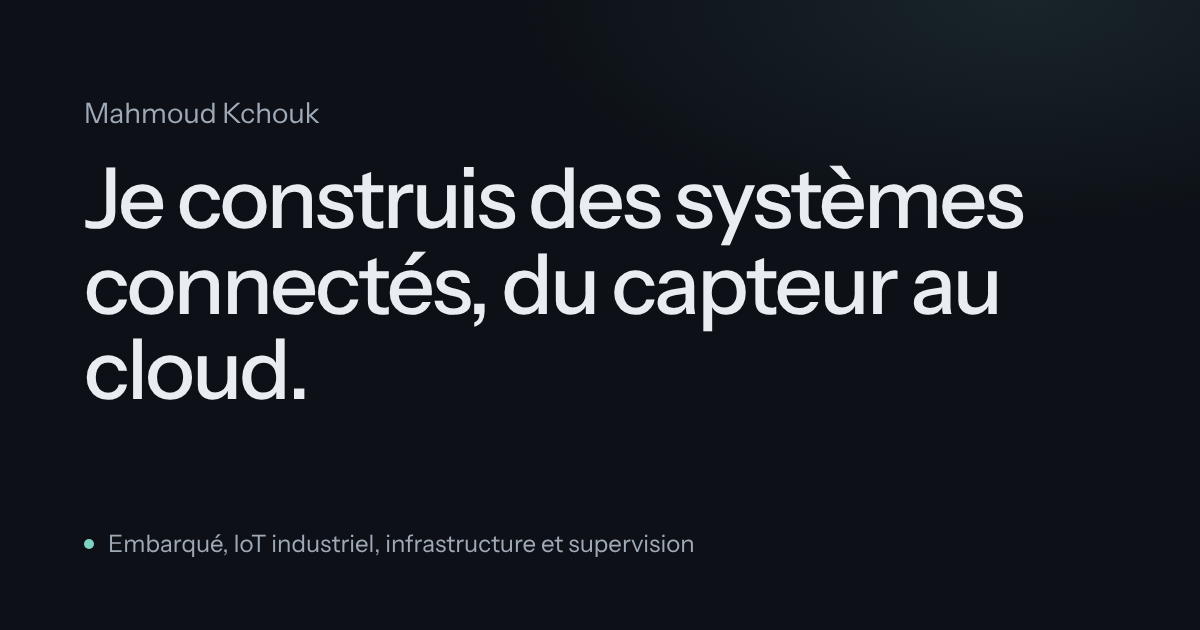
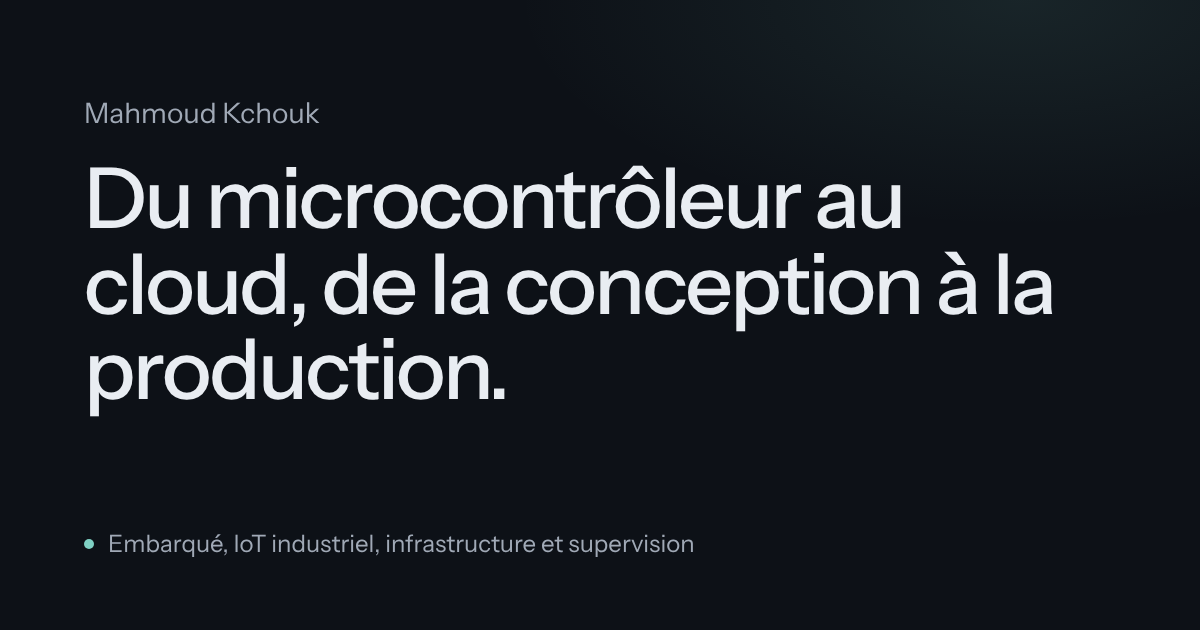
New hero headline: du microcontrôleur au cloud, de la conception à la production

Changed region(s): [[0.0925, 0.3921, 0.8942, 0.5429], [0.0617, 0.2413, 0.8633, 0.3921], [0.0617, 0.5429, 0.4317, 0.6635]]

diff --git a/src/lib/i18n.ts b/src/lib/i18n.ts
@@ -31,7 +31,7 @@ export const ui = {
     menu: "Ouvrir le menu",
     closeMenu: "Fermer le menu",
     hero: {
-      title: "Je construis des systèmes connectés, du capteur au cloud.",
+      title: "Du microcontrôleur au cloud, de la conception à la production.",
       lead: "Mahmoud Kchouk, élève-ingénieur à l'UTT. Embarqué, IoT industriel, infrastructure et supervision.",
       ctaProjects: "Voir les projets",
       ctaContact: "Me contacter",
@@ -116,7 +116,7 @@ export const ui = {
     menu: "Open menu",
     closeMenu: "Close menu",
     hero: {
-      title: "I build connected systems, from sensor to cloud.",
+      title: "From microcontroller to cloud, from design to production.",
       lead: "Mahmoud Kchouk, engineering student at UTT, France. Embedded, industrial IoT, infrastructure and monitoring.",
       ctaProjects: "View projects",
       ctaContact: "Get in touch",

diff --git a/src/components/Hero.tsx b/src/components/Hero.tsx
@@ -25,8 +25,8 @@ export function Hero({ locale }: { locale: Locale }) {
 
   return (
     <section aria-labelledby="hero-title" className="relative overflow-hidden">
-      <div className="mx-auto grid max-w-[1320px] items-center gap-14 px-5 pb-20 pt-32 sm:px-8 sm:pt-36 lg:min-h-[min(100svh,880px)] lg:grid-cols-[minmax(0,4.3fr)_minmax(0,7.7fr)] lg:gap-12 lg:pb-14 lg:pt-28 xl:gap-20">
-        <div className="max-w-[34rem]">
+      <div className="mx-auto grid max-w-[1320px] items-center gap-14 px-5 pb-20 pt-32 sm:px-8 sm:pt-36 lg:min-h-[min(100svh,880px)] lg:grid-cols-[minmax(0,5fr)_minmax(0,7fr)] lg:gap-12 lg:pb-14 lg:pt-28 xl:gap-20">
+        <div className="max-w-[36rem]">
           <motion.h1 id="hero-title" className="text-hero font-medium text-fg" {...rise(0.05)}>
             {t.title}
           </motion.h1>

diff --git a/src/app/globals.css b/src/app/globals.css
@@ -24,7 +24,7 @@
 
   --font-sans: "Instrument Sans", ui-sans-serif, system-ui, sans-serif;
 
-  --text-hero: clamp(2.5rem, 1.6rem + 2.6vw, 3.9rem);
+  --text-hero: clamp(2.25rem, 1.5rem + 2.2vw, 3.5rem);
   --text-hero--line-height: 1.04;
   --text-hero--letter-spacing: -0.032em;
 
